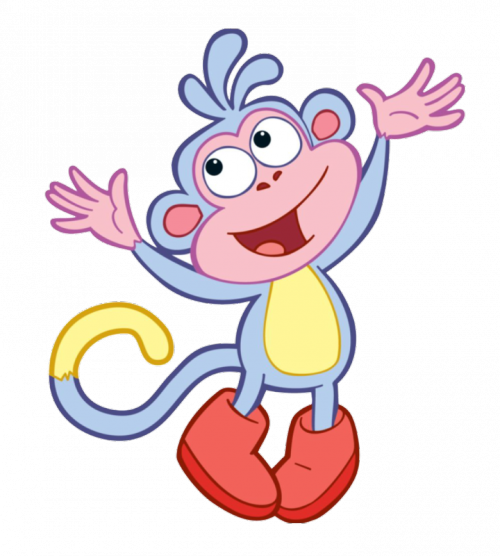
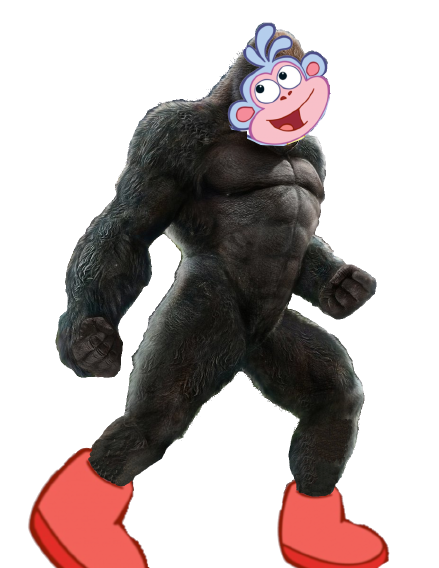
add], gorilla (click_quiz), disapear gorilla

diff --git a/sources/window.c b/sources/window.c
@@ -19,46 +19,46 @@ int alex_move(global_t *g)
 
 int contibox(global_t *g)
 {
-    if (g->alex.pos.x > 50 && g->alex.pos.y > 50 && g->alex.pos.x < 685 && g->alex.pos.y < 452) {
-        g->bloc[AMER_ND].pos.x = 50; 
-        g->bloc[AMER_ND].pos.y = 50;
+    if (g->bloc[AMER_ND].quiz == 0 && g->alex.pos.x > 50 && g->alex.pos.y > 50 && g->alex.pos.x < 685 && g->alex.pos.y < 452) {
+        g->bloc[AMER_ND].pos.x = 200;
+        g->bloc[AMER_ND].pos.y = 100;
     } else {
-        g->bloc[AMER_ND].pos.x = -1000; 
+        g->bloc[AMER_ND].pos.x = -1000;
         g->bloc[AMER_ND].pos.y = -1000;
     }
-    if (g->alex.pos.x > 513 && g->alex.pos.y > 483 && g->alex.pos.x < 800 && g->alex.pos.y < 866) {
-        g->bloc[AMER_SD].pos.x = 513; 
+    if (g->bloc[AMER_SD].quiz == 0 && g->alex.pos.x > 513 && g->alex.pos.y > 483 && g->alex.pos.x < 800 && g->alex.pos.y < 866) {
+        g->bloc[AMER_SD].pos.x = 513;
         g->bloc[AMER_SD].pos.y = 483;
     } else {
-        g->bloc[AMER_SD].pos.x = -1000; 
+        g->bloc[AMER_SD].pos.x = -1000;
         g->bloc[AMER_SD].pos.y = -1000;
     }
-    if (g->alex.pos.x > 855 && g->alex.pos.y > 351 && g->alex.pos.x < 1292 && g->alex.pos.y < 727) {
-        g->bloc[AFR].pos.x = 855; 
+    if (g->bloc[AFR].quiz == 0 && g->alex.pos.x > 855 && g->alex.pos.y > 351 && g->alex.pos.x < 1292 && g->alex.pos.y < 727) {
+        g->bloc[AFR].pos.x = 855;
         g->bloc[AFR].pos.y = 351;
     } else {
-        g->bloc[AFR].pos.x = -1000; 
+        g->bloc[AFR].pos.x = -1000;
         g->bloc[AFR].pos.y = -1000;
     }
-    if (g->alex.pos.x > 832 && g->alex.pos.y > 123 && g->alex.pos.x < 1238 && g->alex.pos.y < 306) {
-        g->bloc[EURO].pos.x = 832; 
+    if (g->bloc[EURO].quiz == 0 && g->alex.pos.x > 832 && g->alex.pos.y > 123 && g->alex.pos.x < 1241 && g->alex.pos.y < 333) {
+        g->bloc[EURO].pos.x = 832;
         g->bloc[EURO].pos.y = 123;
     } else {
-        g->bloc[EURO].pos.x = -1000; 
+        g->bloc[EURO].pos.x = -1000;
         g->bloc[EURO].pos.y = -1000;
     }
-    if (g->alex.pos.x > 1251 && g->alex.pos.y > 91 && g->alex.pos.x < 1904 && g->alex.pos.y < 500) {
-        g->bloc[ASIE].pos.x = 1251; 
+    if (g->bloc[ASIE].quiz == 0 && g->alex.pos.x > 1251 && g->alex.pos.y > 91 && g->alex.pos.x < 1904 && g->alex.pos.y < 500) {
+        g->bloc[ASIE].pos.x = 1251;
         g->bloc[ASIE].pos.y = 91;
     } else {
-        g->bloc[ASIE].pos.x = -1000; 
+        g->bloc[ASIE].pos.x = -1000;
         g->bloc[ASIE].pos.y = -1000;
     }
-    if (g->alex.pos.x > 1507 && g->alex.pos.y > 573 && g->alex.pos.x < 1909 && g->alex.pos.y < 798) {
-        g->bloc[OCEA].pos.x = 1507; 
+    if (g->bloc[OCEA].quiz == 0 && g->alex.pos.x > 1507 && g->alex.pos.y > 558 && g->alex.pos.x < 1909 && g->alex.pos.y < 798) {
+        g->bloc[OCEA].pos.x = 1507;
         g->bloc[OCEA].pos.y = 573;
     } else {
-        g->bloc[OCEA].pos.x = -1000; 
+        g->bloc[OCEA].pos.x = -1000;
         g->bloc[OCEA].pos.y = -1000;
     }
     for (int i = AMER_ND; i <= OCEA; i += 1)

diff --git a/sources/event.c b/sources/event.c
@@ -23,9 +23,58 @@ int check_event_mouse(global_t *g)
     return 0;
 }
 
+int quizz(global_t *g)
+{
+    sfVector2i vec;
+    if (g->bloc[AMER_ND].pos.x != -1000 && g->bloc[AMER_ND].pos.y != -1000) {
+        if (g->event.type == sfEvtMouseButtonPressed) {
+            vec = sfMouse_getPositionRenderWindow(g->window);
+            if (vec.x > 50 && vec.y > 50 && vec.x < 685 &&  vec.y < 452)
+                g->bloc[AMER_ND].quiz = 1;
+        }
+    }
+    if (g->bloc[AMER_SD].pos.x != -1000 && g->bloc[AMER_SD].pos.y != -1000) {
+        if (g->event.type == sfEvtMouseButtonPressed) {
+            vec = sfMouse_getPositionRenderWindow(g->window);
+            if (vec.x > 513 && vec.y > 483 && vec.x < 800 &&  vec.y < 866)
+                g->bloc[AMER_SD].quiz = 1;
+        }
+    }
+    if (g->bloc[AFR].pos.x != -1000 && g->bloc[AFR].pos.y != -1000) {
+        if (g->event.type == sfEvtMouseButtonPressed) {
+            vec = sfMouse_getPositionRenderWindow(g->window);
+            if (vec.x > 855 && vec.y > 351 && vec.x < 1292 &&  vec.y < 727)
+                g->bloc[AFR].quiz = 1;
+        }
+    }
+    if (g->bloc[EURO].pos.x != -1000 && g->bloc[EURO].pos.y != -1000) {
+        if (g->event.type == sfEvtMouseButtonPressed) {
+            vec = sfMouse_getPositionRenderWindow(g->window);
+            if (vec.x > 832 && vec.y > 123 && vec.x < 1241 &&  vec.y < 333)
+                g->bloc[EURO].quiz = 1;
+        }
+    }
+    if (g->bloc[ASIE].pos.x != -1000 && g->bloc[ASIE].pos.y != -1000) {
+        if (g->event.type == sfEvtMouseButtonPressed) {
+            vec = sfMouse_getPositionRenderWindow(g->window);
+            if (vec.x > 1251 && vec.y > 91 && vec.x < 1904 && vec.y < 500)
+                g->bloc[ASIE].quiz = 1;
+        }
+    }
+    if (g->bloc[OCEA].pos.x != -1000 && g->bloc[OCEA].pos.y != -1000) {
+        if (g->event.type == sfEvtMouseButtonPressed) {
+            vec = sfMouse_getPositionRenderWindow(g->window);
+            if (vec.x > 1507 && vec.y > 558 && vec.x < 1909 && vec.y < 798)
+                g->bloc[OCEA].quiz = 1;
+        }
+    }
+    return 0;
+}
+
 int check_event(global_t *g)
 {
     check_event_close(g);
     check_event_mouse(g);
+    quizz(g);
     return 0;
 }

diff --git a/sources/init.c b/sources/init.c
@@ -58,6 +58,7 @@ int continent_sprite(global_t *g)
         sfSprite_setTexture(g->bloc[i].sprite, g->bloc[i].texture, TRUE);
         sfSprite_setScale(g->bloc[i].sprite, g->bloc[i].scale);
         sfSprite_setPosition(g->bloc[i].sprite, g->bloc[i].pos);
+        g->bloc[i].quiz = 0;
     }
     return 0;
 }

diff --git a/include/include.h b/include/include.h
@@ -61,6 +61,7 @@ typedef struct
     sfVector2f pos;
     sfVector2f scale;
     my_rect rect;
+    int quiz;
 }objet_t;
 
 typedef struct
